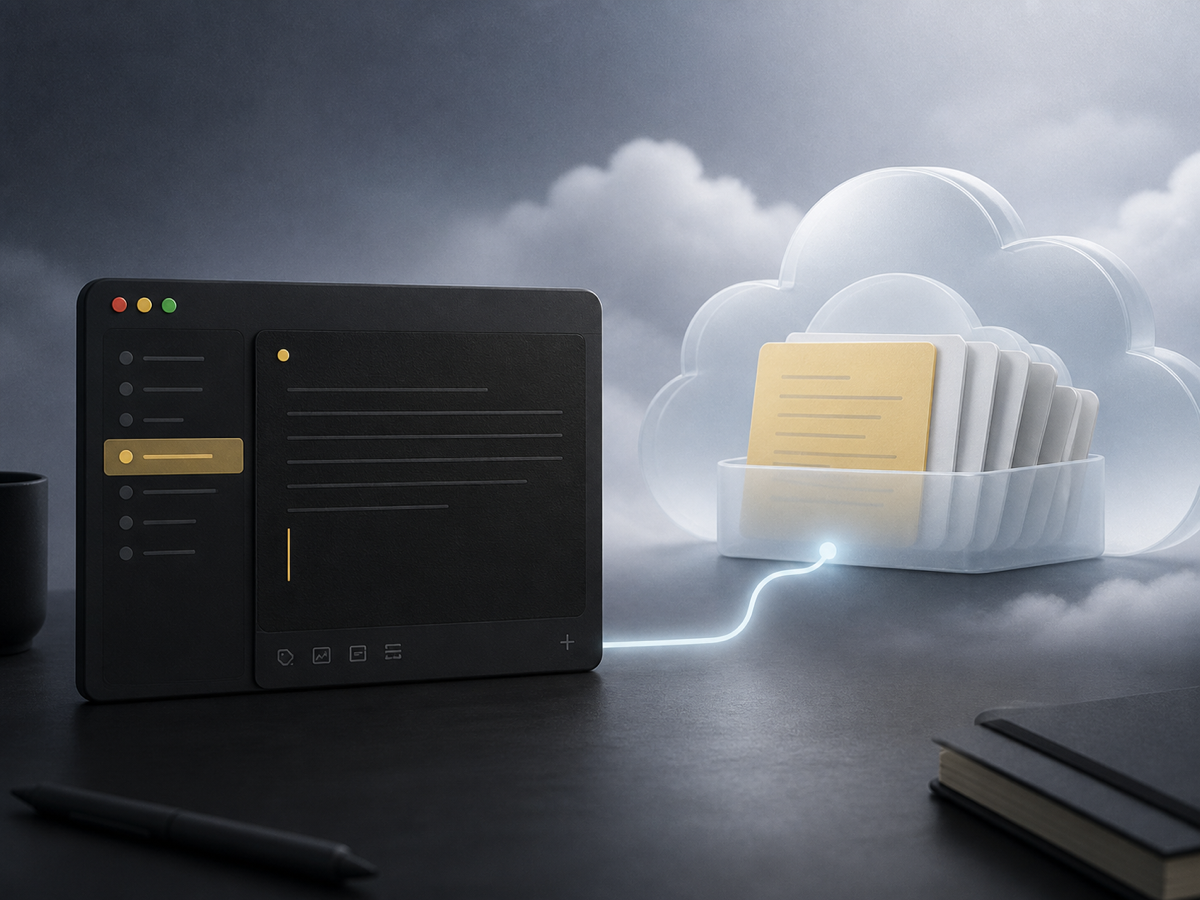
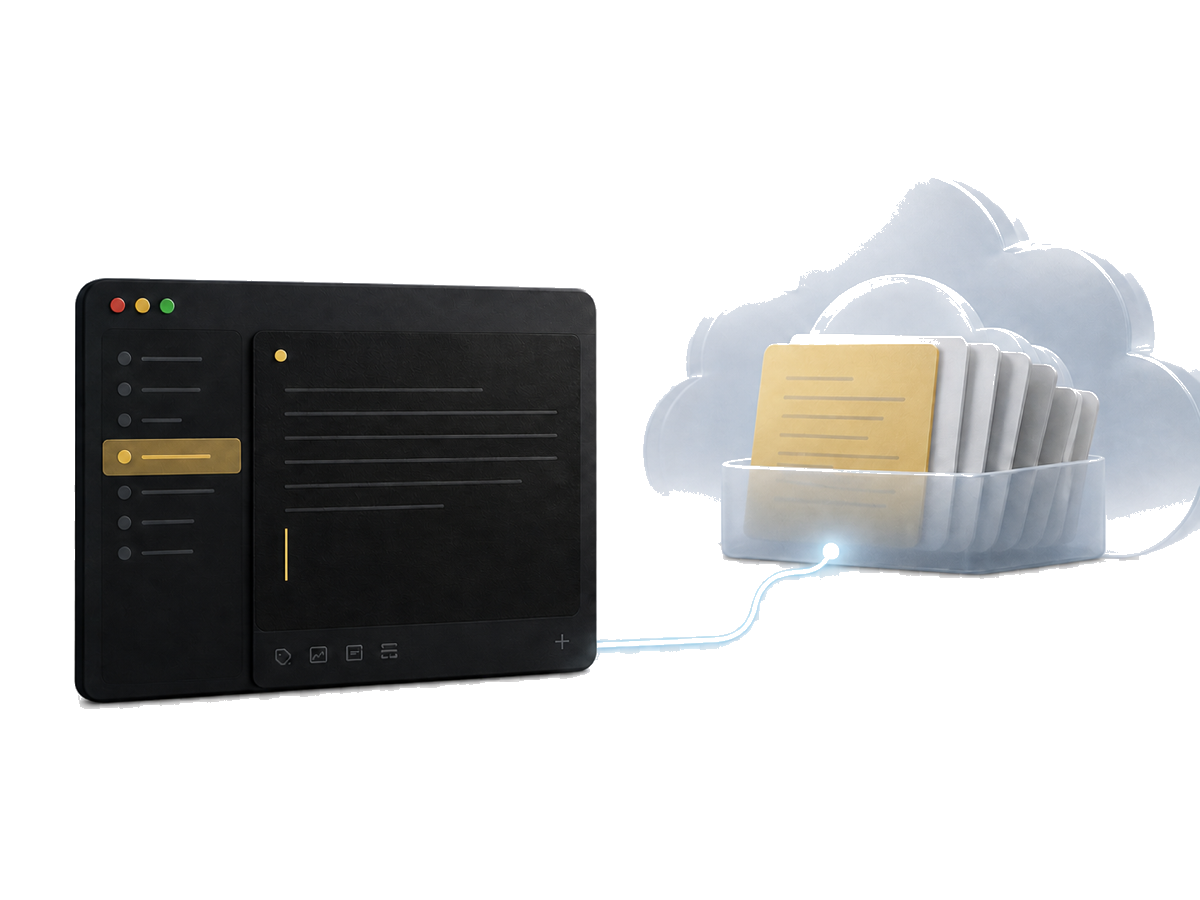
fix: remove landing artwork backdrops

diff --git a/site/styles.css b/site/styles.css
@@ -304,10 +304,9 @@ h2 {
 
 .feature-art img {
   aspect-ratio: 4 / 3;
-  border-radius: 12px;
-  box-shadow: 0 24px 60px rgba(0, 0, 0, 0.18);
   display: block;
-  object-fit: cover;
+  filter: drop-shadow(0 18px 28px rgba(0, 0, 0, 0.16));
+  object-fit: contain;
   width: 100%;
 }
 
